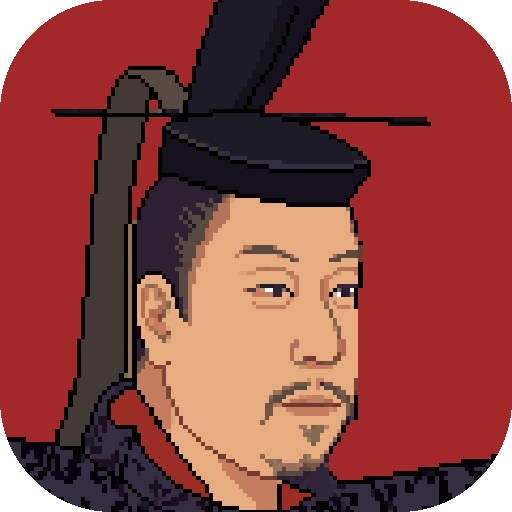
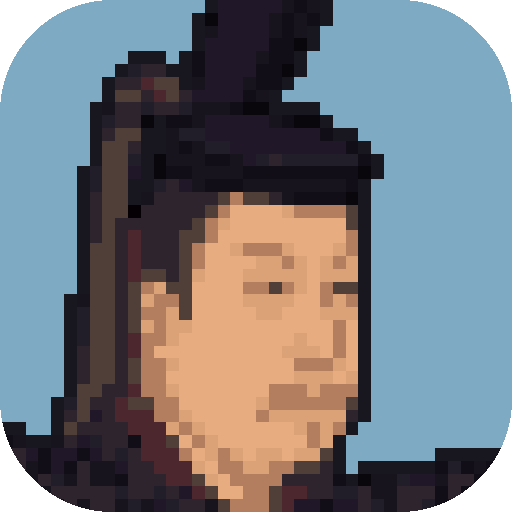
部屋番号を必ず割り振る（暗記大戦・SUPER歴史ノベル）、歴史ノベルのアイコンをドット感のある空色に
Claude-Session: https://claude.ai/code/session_01HyMbFkDw166AQ3cNkkYCFM

diff --git a/apps/history-novel/index.html b/apps/history-novel/index.html
@@ -195,7 +195,9 @@ header{position:relative;display:flex;align-items:center;gap:12px;border-bottom:
 .stats small{color:var(--muted);font-size:12px}
 .ov.sel{background:linear-gradient(90deg,var(--bg) 0,var(--bg) 34%,color-mix(in srgb,var(--bg) 70%,transparent) 60%,transparent 100%);display:flex;align-items:center}
 @media (max-width:640px){.ov.sel{background:linear-gradient(180deg,color-mix(in srgb,var(--bg) 92%,transparent),color-mix(in srgb,var(--bg) 80%,transparent))}}
-.sel-in{width:100%;max-width:1100px;margin:0 auto;display:grid;gap:22px}
+.sel-in{width:100%;max-width:1100px;margin:auto;display:grid;gap:22px}
+.ov.sel{overflow-y:auto}
+#titleRoom p{margin:0}#titleRoom:empty{display:none}
 .sel .sub{font-size:12px;letter-spacing:.3em;color:var(--muted)}
 .eras{list-style:none;margin:0;padding:0;display:grid;gap:2px;max-width:420px;counter-reset:e}
 .eras .era{width:100%;display:grid;grid-template-columns:5.5em 7.5em 1fr;align-items:baseline;gap:10px;text-align:left;padding:9px 0;border-bottom:1px solid var(--line)}
@@ -904,7 +906,7 @@ $("sheetRoot").addEventListener("click",e=>{
   const t=e.target.closest("[data-k]");if(t){st.sheet="term";openTerm(t.dataset.k,false);}
 });
 $("bGl").onclick=e=>{e.stopPropagation();st.sheet="gloss";st.stack=[];renderSheet();};
-$("bRoom").onclick=e=>{e.stopPropagation();if(!room&&SBR.on){SBR.invite();return;}st.sheet="room";st.stack=[];renderSheet();};
+$("bRoom").onclick=e=>{e.stopPropagation();st.sheet="room";st.stack=[];renderSheet();};
 $("bEnd").onclick=e=>{e.stopPropagation();if(isFollower()){roomAction("solo");}st.dug=new Set();resetProgress();showTitle();};
 $("novel").addEventListener("click",e=>{
   const t=e.target.closest(".term");if(t){e.stopPropagation();return openTerm(t.dataset.k,true);}
@@ -926,9 +928,10 @@ function showTitle(){
   $("ovRoot").innerHTML=`<div class="ov sel"><div class="sel-in">
    <h1 class="app-name"><b>SUPER</b>歴史ノベル</h1>
    <div class="sub">日本史をめぐる</div>
+   <div id="titleRoom"></div>
    <ol class="eras">${ERAS.map((e,j)=>e[3]?`<li><button class="era on" id="start"><span class="no">${j+1}</span><span class="en">${e[0]}</span><span class="et">${e[2]}</span></button></li>`
      :`<li><div class="era off"><span class="no">${j+1}</span><span class="en">${e[0]}</span><span class="et">準備中</span></div></li>`).join("")}</ol>
-   <div id="titleRoom"></div></div></div>`;
+   </div></div>`;
   renderTitleRoom();push();
 }
 function renderTitleRoom(){
@@ -938,10 +941,10 @@ function renderTitleRoom(){
     if(sb)sb.disabled=true;
     el.innerHTML=`<p class="muted">${esc(h?nameOf(h):"ホスト")}さんが始めるのを待っています　<button class="lnk" data-room="solo">ひとりで読む</button></p>`;
   }else{
-    if(sb){sb.disabled=false;sb.onclick=()=>{SE.scene();startReading();};}
-    el.innerHTML=(!room&&SBR.on)?`<p class="muted"><button class="lnk" data-room="invite">一緒に読む</button></p>`:room?`<p class="muted">${st.role==="host"?`ホストとして読みます（${others().length+1}人）　<button class="lnk" data-room="solo">やめる</button>`:`<button class="lnk" data-room="host">一緒に読む</button>`}</p>`:"";
+    if(sb){sb.disabled=false;sb.onclick=()=>{SE.scene();if(SBR.on&&room&&st.role==="solo"&&!(h&&!h.sameTab))roomAction("host");startReading();};}
+    el.innerHTML=SBR.on?`${h&&!h.sameTab?`<p class="muted">${esc(nameOf(h))}さんが読んでいます　<button class="lnk" data-room="follow">参加する</button></p>`:""}<p class="muted">部屋 <b>${esc(SBR.code)}</b>　<button class="lnk" data-share="1">この部屋のURLをシェア</button></p>`:room?`<p class="muted">${st.role==="host"?`ホストとして読みます（${others().length+1}人）　<button class="lnk" data-room="solo">やめる</button>`:`<button class="lnk" data-room="host">一緒に読む</button>`}</p>`:"";
   }
-  el.querySelectorAll("[data-room]").forEach(b=>b.onclick=()=>b.dataset.room==="invite"?SBR.invite():roomAction(b.dataset.room));
+  el.querySelectorAll("[data-room]").forEach(b=>b.onclick=()=>roomAction(b.dataset.room));
 }
 function showOrder(){
   const perm=st.perm;
@@ -1022,12 +1025,12 @@ function roomSheet(){
   else act=`${h?`<button class="go" data-room="follow">${esc(nameOf(h))}さんに合わせて読む</button>`:""}<button class="ghost" data-room="host">ホストになって一緒に読む</button>`;
   return `<div class="crumb"><span>参加者</span></div><div class="sh-body"><h2>いま開いている人 ${peers.filter(p=>p.kind==="viewer").length}</h2>
   <div class="glist">${list}</div><div style="display:grid;gap:8px;margin-top:14px">${act}</div>
-  ${SBR.code?`<p class="muted" style="margin-top:12px">招待は、このリンクを送るだけです。</p><div style="display:grid;gap:8px"><label class="muted" style="display:grid;gap:4px">あなたの名前<input data-myname maxlength="12" placeholder="ゲスト" value="${esc(SBR.me_&&SBR.me_.name!=="ゲスト"?SBR.me_.name:"")}" style="font:inherit;padding:8px;border:1px solid var(--line);border-radius:8px;background:var(--sheet);color:var(--ink)"></label><input readonly value="${esc(SBR.link())}" onclick="this.select()" style="font:inherit;padding:8px;border:1px solid var(--line);border-radius:8px;background:var(--sheet);color:var(--ink)"><button class="go" data-invite="1">${navigator.share?"リンクを送る":"リンクをコピー"}</button></div>`:`<p class="muted" style="margin-top:12px">招待は、このページの共有メニューからできます。</p>`}</div>`;
+  ${SBR.code?`<p class="muted" style="margin-top:12px">同じ部屋番号のURLを開いた人と一緒に読めます。部屋番号 <b>${esc(SBR.code)}</b></p><div style="display:grid;gap:8px"><label class="muted" style="display:grid;gap:4px">あなたの名前<input data-myname maxlength="12" placeholder="ゲスト" value="${esc(SBR.me_&&SBR.me_.name!=="ゲスト"?SBR.me_.name:"")}" style="font:inherit;padding:8px;border:1px solid var(--line);border-radius:8px;background:var(--sheet);color:var(--ink)"></label><input readonly value="${esc(SBR.link())}" onclick="this.select()" style="font:inherit;padding:8px;border:1px solid var(--line);border-radius:8px;background:var(--sheet);color:var(--ink)"><button class="go" data-share="1">この部屋のURLをシェア</button></div>`:`<p class="muted" style="margin-top:12px">招待は、このページの共有メニューからできます。</p>`}</div>`;
 }
 function updateRoomUI(){
-  const b=$("bRoom");if(!room){b.hidden=!SBR.on;b.textContent="一緒に読む";b.classList.remove("on");return;}
+  const b=$("bRoom");if(!room){b.hidden=true;return;}
   b.hidden=false;const n=peers.filter(p=>p.kind==="viewer").length||1;
-  b.textContent=st.role==="host"?`参加者 ${n}・ホスト`:st.role==="follow"?`参加者 ${n}・同期中`:`参加者 ${n}`;
+  b.textContent=SBR.on?`部屋 ${SBR.code}・${n}人${st.role==="host"?"・ホスト":st.role==="follow"?"・同期中":""}`:st.role==="host"?`参加者 ${n}・ホスト`:st.role==="follow"?`参加者 ${n}・同期中`:`参加者 ${n}`;
   b.classList.toggle("on",st.role!=="solo");
 }
 async function resolveNames(){
@@ -1042,16 +1045,16 @@ function bindRoom(){
     if(ch.joined.length)await resolveNames();
     const h=hostPeer();
     if(st.role==="host"&&h&&!h.sameTab)roomAction("solo");
-    if(st.role==="solo"&&h&&!h.sameTab&&!st.autoAsked&&st.v==="title"){st.autoAsked=true;roomAction("follow");}
+    if(!SBR.on&&st.role==="solo"&&h&&!h.sameTab&&!st.autoAsked&&st.v==="title"){st.autoAsked=true;roomAction("follow");}
     if(st.role==="follow"&&h&&!h.sameTab)applyHost(h.presence.s);
     if(st.role==="host"&&ch.joined.length)push();
     updateRoomUI();if(st.sheet==="room"&&!(document.activeElement&&document.activeElement.matches("[data-myname]")))renderSheet();
     if(st.v==="title")renderTitleRoom();
   },()=>{room=null;updateRoomUI();});
 }
-/* ポータル版の「一緒に読む」: Supabase Realtime presence（表は使わない）。?yomu=あいことば で同じ部屋に入る。 */
+/* ポータル版の「一緒に読む」: Supabase Realtime（表は使わない）。?room=部屋番号 が同じ人どうしが同じ部屋。番号が無ければ6桁を割り振る。 */
 const SBR={on:false,code:"",
-  link(){return location.origin+location.pathname+"?yomu="+this.code;},
+  link(){return location.origin+location.pathname+"?room="+this.code;},
   async me(){
     let id=null,name="";
     try{name=(localStorage.getItem("hn-name")||localStorage.getItem("nb-name")||"").slice(0,12);}catch(e){}
@@ -1078,20 +1081,13 @@ const SBR={on:false,code:"",
     let tracked="";const slowTrack=()=>{clearTimeout(tT);const sig=JSON.stringify([pres.host||null,pres.ep||null]);if(sig===tracked)return;const w=1500-(Date.now()-lastT);if(w<=0){lastT=Date.now();tracked=sig;track().catch(()=>{tracked="";});}else tT=setTimeout(slowTrack,w);};
     room={presence(p){pres=p;seq=Date.now()*1000+(seq%1000+1);if(!ready)return Promise.resolve();ch.send({type:"broadcast",event:"p",payload:{k:key,q:seq,p}}).catch(()=>{});slowTrack();return Promise.resolve();},onPeers(f){cb=f;}};
     bindRoom();
-  },
-  async invite(){
-    if(room)return;
-    const code=Math.random().toString(36).slice(2,8);
-    try{history.replaceState(null,"",location.pathname+"?yomu="+code);}catch(e){}
-    await this.join(code);roomAction("host");
-    st.sheet="room";st.stack=[];renderSheet();
   }
 };
 const SB_URL="https://rjydvhpqfhmlvpsykwzf.supabase.co",SB_KEY="sb_publishable_NAVKQxtEtS1zPFj59iXIEQ_Y_RztuSx";
 document.addEventListener("change",e=>{const t=e.target;if(!t.matches||!t.matches("[data-myname]")||!SBR.me_)return;const v=t.value.trim().slice(0,12);SBR.me_.name=v||"ゲスト";try{localStorage.setItem("hn-name",v);}catch(x){}SBR.retrack();},true);
-document.addEventListener("click",e=>{const b=e.target.closest("[data-invite]");if(!b)return;e.stopPropagation();const url=SBR.link();
-  if(navigator.share)navigator.share({title:"SUPER歴史ノベル",text:"一緒に読もう",url}).catch(()=>{});
-  else navigator.clipboard&&navigator.clipboard.writeText(url).then(()=>{b.textContent="コピーしました";},()=>{});},true);
+document.addEventListener("click",e=>{const b=e.target.closest("[data-share]");if(!b)return;e.stopPropagation();const url=SBR.link();
+  if(navigator.share)navigator.share({title:"SUPER歴史ノベル",text:"部屋 "+SBR.code+" で一緒に読もう",url}).catch(()=>{});
+  else navigator.clipboard&&navigator.clipboard.writeText(url).then(()=>{b.textContent="コピーしました";setTimeout(()=>{b.textContent="この部屋のURLをシェア";},2000);},()=>{});},true);
 (async()=>{
   if(window.claude&&window.claude.use){
     try{user=await window.claude.use("user");}catch(e){}
@@ -1100,9 +1096,11 @@ document.addEventListener("click",e=>{const b=e.target.closest("[data-invite]");
     return;
   }
   if(!window.supabase)return;
-  SBR.on=true;updateRoomUI();if(st.v==="title")renderTitleRoom();
-  const code=(new URLSearchParams(location.search).get("yomu")||"").replace(/[^\w-]/g,"").slice(0,32);
-  if(code)await SBR.join(code);
+  /* 部屋番号は必ずある（2026-11-05 Keita決定）。?room= が無ければ開くたびにランダムな6桁を割り振る。暗記大戦と同じ決まり */
+  const q=new URLSearchParams(location.search);let code=(q.get("room")||"").replace(/[^\w-]/g,"").slice(0,32);
+  if(!code){code=String(100000+Math.floor(Math.random()*900000));q.set("room",code);try{history.replaceState(null,"",location.pathname+"?"+q.toString()+location.hash);}catch(e){}}
+  SBR.on=true;SBR.code=code;if(st.v==="title")renderTitleRoom();
+  await SBR.join(code);if(st.v==="title")renderTitleRoom();
 })();
 drawSnd();setScene(S[0].scene);mstate=Object.assign({c:[137,36],r:700,pins:[],blink:null,ar:[]},S[0].scene.m);buildOverlay();resize();showTitle();
 

diff --git a/apps/history-novel/src/engine2.js b/apps/history-novel/src/engine2.js
@@ -386,7 +386,7 @@ $("sheetRoot").addEventListener("click",e=>{
   const t=e.target.closest("[data-k]");if(t){st.sheet="term";openTerm(t.dataset.k,false);}
 });
 $("bGl").onclick=e=>{e.stopPropagation();st.sheet="gloss";st.stack=[];renderSheet();};
-$("bRoom").onclick=e=>{e.stopPropagation();if(!room&&SBR.on){SBR.invite();return;}st.sheet="room";st.stack=[];renderSheet();};
+$("bRoom").onclick=e=>{e.stopPropagation();st.sheet="room";st.stack=[];renderSheet();};
 $("bEnd").onclick=e=>{e.stopPropagation();if(isFollower()){roomAction("solo");}st.dug=new Set();resetProgress();showTitle();};
 $("novel").addEventListener("click",e=>{
   const t=e.target.closest(".term");if(t){e.stopPropagation();return openTerm(t.dataset.k,true);}
@@ -408,9 +408,10 @@ function showTitle(){
   $("ovRoot").innerHTML=`<div class="ov sel"><div class="sel-in">
    <h1 class="app-name"><b>SUPER</b>歴史ノベル</h1>
    <div class="sub">日本史をめぐる</div>
+   <div id="titleRoom"></div>
    <ol class="eras">${ERAS.map((e,j)=>e[3]?`<li><button class="era on" id="start"><span class="no">${j+1}</span><span class="en">${e[0]}</span><span class="et">${e[2]}</span></button></li>`
      :`<li><div class="era off"><span class="no">${j+1}</span><span class="en">${e[0]}</span><span class="et">準備中</span></div></li>`).join("")}</ol>
-   <div id="titleRoom"></div></div></div>`;
+   </div></div>`;
   renderTitleRoom();push();
 }
 function renderTitleRoom(){
@@ -420,10 +421,10 @@ function renderTitleRoom(){
     if(sb)sb.disabled=true;
     el.innerHTML=`<p class="muted">${esc(h?nameOf(h):"ホスト")}さんが始めるのを待っています　<button class="lnk" data-room="solo">ひとりで読む</button></p>`;
   }else{
-    if(sb){sb.disabled=false;sb.onclick=()=>{SE.scene();startReading();};}
-    el.innerHTML=(!room&&SBR.on)?`<p class="muted"><button class="lnk" data-room="invite">一緒に読む</button></p>`:room?`<p class="muted">${st.role==="host"?`ホストとして読みます（${others().length+1}人）　<button class="lnk" data-room="solo">やめる</button>`:`<button class="lnk" data-room="host">一緒に読む</button>`}</p>`:"";
+    if(sb){sb.disabled=false;sb.onclick=()=>{SE.scene();if(SBR.on&&room&&st.role==="solo"&&!(h&&!h.sameTab))roomAction("host");startReading();};}
+    el.innerHTML=SBR.on?`${h&&!h.sameTab?`<p class="muted">${esc(nameOf(h))}さんが読んでいます　<button class="lnk" data-room="follow">参加する</button></p>`:""}<p class="muted">部屋 <b>${esc(SBR.code)}</b>　<button class="lnk" data-share="1">この部屋のURLをシェア</button></p>`:room?`<p class="muted">${st.role==="host"?`ホストとして読みます（${others().length+1}人）　<button class="lnk" data-room="solo">やめる</button>`:`<button class="lnk" data-room="host">一緒に読む</button>`}</p>`:"";
   }
-  el.querySelectorAll("[data-room]").forEach(b=>b.onclick=()=>b.dataset.room==="invite"?SBR.invite():roomAction(b.dataset.room));
+  el.querySelectorAll("[data-room]").forEach(b=>b.onclick=()=>roomAction(b.dataset.room));
 }
 function showOrder(){
   const perm=st.perm;
@@ -504,12 +505,12 @@ function roomSheet(){
   else act=`${h?`<button class="go" data-room="follow">${esc(nameOf(h))}さんに合わせて読む</button>`:""}<button class="ghost" data-room="host">ホストになって一緒に読む</button>`;
   return `<div class="crumb"><span>参加者</span></div><div class="sh-body"><h2>いま開いている人 ${peers.filter(p=>p.kind==="viewer").length}</h2>
   <div class="glist">${list}</div><div style="display:grid;gap:8px;margin-top:14px">${act}</div>
-  ${SBR.code?`<p class="muted" style="margin-top:12px">招待は、このリンクを送るだけです。</p><div style="display:grid;gap:8px"><label class="muted" style="display:grid;gap:4px">あなたの名前<input data-myname maxlength="12" placeholder="ゲスト" value="${esc(SBR.me_&&SBR.me_.name!=="ゲスト"?SBR.me_.name:"")}" style="font:inherit;padding:8px;border:1px solid var(--line);border-radius:8px;background:var(--sheet);color:var(--ink)"></label><input readonly value="${esc(SBR.link())}" onclick="this.select()" style="font:inherit;padding:8px;border:1px solid var(--line);border-radius:8px;background:var(--sheet);color:var(--ink)"><button class="go" data-invite="1">${navigator.share?"リンクを送る":"リンクをコピー"}</button></div>`:`<p class="muted" style="margin-top:12px">招待は、このページの共有メニューからできます。</p>`}</div>`;
+  ${SBR.code?`<p class="muted" style="margin-top:12px">同じ部屋番号のURLを開いた人と一緒に読めます。部屋番号 <b>${esc(SBR.code)}</b></p><div style="display:grid;gap:8px"><label class="muted" style="display:grid;gap:4px">あなたの名前<input data-myname maxlength="12" placeholder="ゲスト" value="${esc(SBR.me_&&SBR.me_.name!=="ゲスト"?SBR.me_.name:"")}" style="font:inherit;padding:8px;border:1px solid var(--line);border-radius:8px;background:var(--sheet);color:var(--ink)"></label><input readonly value="${esc(SBR.link())}" onclick="this.select()" style="font:inherit;padding:8px;border:1px solid var(--line);border-radius:8px;background:var(--sheet);color:var(--ink)"><button class="go" data-share="1">この部屋のURLをシェア</button></div>`:`<p class="muted" style="margin-top:12px">招待は、このページの共有メニューからできます。</p>`}</div>`;
 }
 function updateRoomUI(){
-  const b=$("bRoom");if(!room){b.hidden=!SBR.on;b.textContent="一緒に読む";b.classList.remove("on");return;}
+  const b=$("bRoom");if(!room){b.hidden=true;return;}
   b.hidden=false;const n=peers.filter(p=>p.kind==="viewer").length||1;
-  b.textContent=st.role==="host"?`参加者 ${n}・ホスト`:st.role==="follow"?`参加者 ${n}・同期中`:`参加者 ${n}`;
+  b.textContent=SBR.on?`部屋 ${SBR.code}・${n}人${st.role==="host"?"・ホスト":st.role==="follow"?"・同期中":""}`:st.role==="host"?`参加者 ${n}・ホスト`:st.role==="follow"?`参加者 ${n}・同期中`:`参加者 ${n}`;
   b.classList.toggle("on",st.role!=="solo");
 }
 async function resolveNames(){
@@ -524,16 +525,16 @@ function bindRoom(){
     if(ch.joined.length)await resolveNames();
     const h=hostPeer();
     if(st.role==="host"&&h&&!h.sameTab)roomAction("solo");
-    if(st.role==="solo"&&h&&!h.sameTab&&!st.autoAsked&&st.v==="title"){st.autoAsked=true;roomAction("follow");}
+    if(!SBR.on&&st.role==="solo"&&h&&!h.sameTab&&!st.autoAsked&&st.v==="title"){st.autoAsked=true;roomAction("follow");}
     if(st.role==="follow"&&h&&!h.sameTab)applyHost(h.presence.s);
     if(st.role==="host"&&ch.joined.length)push();
     updateRoomUI();if(st.sheet==="room"&&!(document.activeElement&&document.activeElement.matches("[data-myname]")))renderSheet();
     if(st.v==="title")renderTitleRoom();
   },()=>{room=null;updateRoomUI();});
 }
-/* ポータル版の「一緒に読む」: Supabase Realtime presence（表は使わない）。?yomu=あいことば で同じ部屋に入る。 */
+/* ポータル版の「一緒に読む」: Supabase Realtime（表は使わない）。?room=部屋番号 が同じ人どうしが同じ部屋。番号が無ければ6桁を割り振る。 */
 const SBR={on:false,code:"",
-  link(){return location.origin+location.pathname+"?yomu="+this.code;},
+  link(){return location.origin+location.pathname+"?room="+this.code;},
   async me(){
     let id=null,name="";
     try{name=(localStorage.getItem("hn-name")||localStorage.getItem("nb-name")||"").slice(0,12);}catch(e){}
@@ -560,20 +561,13 @@ const SBR={on:false,code:"",
     let tracked="";const slowTrack=()=>{clearTimeout(tT);const sig=JSON.stringify([pres.host||null,pres.ep||null]);if(sig===tracked)return;const w=1500-(Date.now()-lastT);if(w<=0){lastT=Date.now();tracked=sig;track().catch(()=>{tracked="";});}else tT=setTimeout(slowTrack,w);};
     room={presence(p){pres=p;seq=Date.now()*1000+(seq%1000+1);if(!ready)return Promise.resolve();ch.send({type:"broadcast",event:"p",payload:{k:key,q:seq,p}}).catch(()=>{});slowTrack();return Promise.resolve();},onPeers(f){cb=f;}};
     bindRoom();
-  },
-  async invite(){
-    if(room)return;
-    const code=Math.random().toString(36).slice(2,8);
-    try{history.replaceState(null,"",location.pathname+"?yomu="+code);}catch(e){}
-    await this.join(code);roomAction("host");
-    st.sheet="room";st.stack=[];renderSheet();
   }
 };
 const SB_URL="https://rjydvhpqfhmlvpsykwzf.supabase.co",SB_KEY="sb_publishable_NAVKQxtEtS1zPFj59iXIEQ_Y_RztuSx";
 document.addEventListener("change",e=>{const t=e.target;if(!t.matches||!t.matches("[data-myname]")||!SBR.me_)return;const v=t.value.trim().slice(0,12);SBR.me_.name=v||"ゲスト";try{localStorage.setItem("hn-name",v);}catch(x){}SBR.retrack();},true);
-document.addEventListener("click",e=>{const b=e.target.closest("[data-invite]");if(!b)return;e.stopPropagation();const url=SBR.link();
-  if(navigator.share)navigator.share({title:"SUPER歴史ノベル",text:"一緒に読もう",url}).catch(()=>{});
-  else navigator.clipboard&&navigator.clipboard.writeText(url).then(()=>{b.textContent="コピーしました";},()=>{});},true);
+document.addEventListener("click",e=>{const b=e.target.closest("[data-share]");if(!b)return;e.stopPropagation();const url=SBR.link();
+  if(navigator.share)navigator.share({title:"SUPER歴史ノベル",text:"部屋 "+SBR.code+" で一緒に読もう",url}).catch(()=>{});
+  else navigator.clipboard&&navigator.clipboard.writeText(url).then(()=>{b.textContent="コピーしました";setTimeout(()=>{b.textContent="この部屋のURLをシェア";},2000);},()=>{});},true);
 (async()=>{
   if(window.claude&&window.claude.use){
     try{user=await window.claude.use("user");}catch(e){}
@@ -582,8 +576,10 @@ document.addEventListener("click",e=>{const b=e.target.closest("[data-invite]");
     return;
   }
   if(!window.supabase)return;
-  SBR.on=true;updateRoomUI();if(st.v==="title")renderTitleRoom();
-  const code=(new URLSearchParams(location.search).get("yomu")||"").replace(/[^\w-]/g,"").slice(0,32);
-  if(code)await SBR.join(code);
+  /* 部屋番号は必ずある（2026-11-05 Keita決定）。?room= が無ければ開くたびにランダムな6桁を割り振る。暗記大戦と同じ決まり */
+  const q=new URLSearchParams(location.search);let code=(q.get("room")||"").replace(/[^\w-]/g,"").slice(0,32);
+  if(!code){code=String(100000+Math.floor(Math.random()*900000));q.set("room",code);try{history.replaceState(null,"",location.pathname+"?"+q.toString()+location.hash);}catch(e){}}
+  SBR.on=true;SBR.code=code;if(st.v==="title")renderTitleRoom();
+  await SBR.join(code);if(st.v==="title")renderTitleRoom();
 })();
 drawSnd();setScene(S[0].scene);mstate=Object.assign({c:[137,36],r:700,pins:[],blink:null,ar:[]},S[0].scene.m);buildOverlay();resize();showTitle();

diff --git a/apps/anki-taisen/index.html b/apps/anki-taisen/index.html
@@ -9,9 +9,17 @@
 <script src="https://unpkg.com/@supabase/supabase-js@2.117.1/dist/umd/supabase.js"></script>
 <script>
 // 対戦のつなぎ役: Supabase Realtime presence（表は使わない）。publishable key は公開してよい値。
-// ?room=あいことば で部屋を分けられる（省略時は main）。
+// 部屋番号は必ずある（2026-11-05 Keita決定）。?room= が無ければ開くたびにランダムな6桁を割り振り、URLに書き込む。
+// 同じ部屋番号のURLを開いた人どうしが同じ部屋。部屋のURLはロビーの「この部屋のURLをシェア」で送る。
 window.ANKI_SB={url:"https://rjydvhpqfhmlvpsykwzf.supabase.co",key:"sb_publishable_NAVKQxtEtS1zPFj59iXIEQ_Y_RztuSx",
-  room:(new URLSearchParams(location.search).get("room")||"main").replace(/[^\w-]/g,"").slice(0,32)||"main"};
+  room:(function(){var q=new URLSearchParams(location.search),r=(q.get("room")||"").replace(/[^\w-]/g,"").slice(0,32);
+    if(!r){r=String(100000+Math.floor(Math.random()*900000));q.set("room",r);try{history.replaceState(null,"",location.pathname+"?"+q.toString()+location.hash);}catch(e){}}
+    return r;})()};
+document.addEventListener("click",function(e){var b=e.target.closest&&e.target.closest("[data-share-room]");if(!b)return;
+  var url=location.origin+location.pathname+"?room="+window.ANKI_SB.room;
+  if(navigator.share){navigator.share({title:"激突！暗記大戦",text:"部屋 "+window.ANKI_SB.room+" で対戦しよう",url:url}).catch(function(){});}
+  else if(navigator.clipboard){navigator.clipboard.writeText(url).then(function(){b.textContent="コピーしました";setTimeout(function(){b.textContent="この部屋のURLをシェア";},2000);});}});
+document.addEventListener("DOMContentLoaded",function(){var n=document.getElementById("roomNo");if(n)n.textContent=window.ANKI_SB.room;});
 </script>
 </head>
 <body>
@@ -292,6 +300,11 @@ h1.plain{font-size:20px;padding:12px 16px;border-radius:14px;text-align:left;box
   <!-- ロビー -->
   <section id="lobby" style="display:flex;flex-direction:column;gap:14px">
     <h1>激<span class="tilt">突</span>！<span>暗記</span>大戦<small>年号も用語も鳥も木も、みんなで覚える</small></h1>
+
+    <div class="roombar" style="display:flex;align-items:center;justify-content:space-between;gap:10px;flex-wrap:wrap">
+      <span>部屋 <b id="roomNo" style="font-size:1.25em;letter-spacing:.08em"></b></span>
+      <button type="button" class="btn ghost" data-share-room style="width:auto;padding:8px 14px">この部屋のURLをシェア</button>
+    </div>
 
     <div class="invite" id="invite" hidden>
       <span id="inviteText"></span>

diff --git a/apps/anki-taisen/src/pubhead.html b/apps/anki-taisen/src/pubhead.html
@@ -9,9 +9,17 @@
 <script src="https://unpkg.com/@supabase/supabase-js@2.117.1/dist/umd/supabase.js"></script>
 <script>
 // 対戦のつなぎ役: Supabase Realtime presence（表は使わない）。publishable key は公開してよい値。
-// ?room=あいことば で部屋を分けられる（省略時は main）。
+// 部屋番号は必ずある（2026-11-05 Keita決定）。?room= が無ければ開くたびにランダムな6桁を割り振り、URLに書き込む。
+// 同じ部屋番号のURLを開いた人どうしが同じ部屋。部屋のURLはロビーの「この部屋のURLをシェア」で送る。
 window.ANKI_SB={url:"https://rjydvhpqfhmlvpsykwzf.supabase.co",key:"sb_publishable_NAVKQxtEtS1zPFj59iXIEQ_Y_RztuSx",
-  room:(new URLSearchParams(location.search).get("room")||"main").replace(/[^\w-]/g,"").slice(0,32)||"main"};
+  room:(function(){var q=new URLSearchParams(location.search),r=(q.get("room")||"").replace(/[^\w-]/g,"").slice(0,32);
+    if(!r){r=String(100000+Math.floor(Math.random()*900000));q.set("room",r);try{history.replaceState(null,"",location.pathname+"?"+q.toString()+location.hash);}catch(e){}}
+    return r;})()};
+document.addEventListener("click",function(e){var b=e.target.closest&&e.target.closest("[data-share-room]");if(!b)return;
+  var url=location.origin+location.pathname+"?room="+window.ANKI_SB.room;
+  if(navigator.share){navigator.share({title:"激突！暗記大戦",text:"部屋 "+window.ANKI_SB.room+" で対戦しよう",url:url}).catch(function(){});}
+  else if(navigator.clipboard){navigator.clipboard.writeText(url).then(function(){b.textContent="コピーしました";setTimeout(function(){b.textContent="この部屋のURLをシェア";},2000);});}});
+document.addEventListener("DOMContentLoaded",function(){var n=document.getElementById("roomNo");if(n)n.textContent=window.ANKI_SB.room;});
 </script>
 </head>
 <body>

diff --git a/apps/history-novel/src/tpl.html b/apps/history-novel/src/tpl.html
@@ -195,7 +195,9 @@ header{position:relative;display:flex;align-items:center;gap:12px;border-bottom:
 .stats small{color:var(--muted);font-size:12px}
 .ov.sel{background:linear-gradient(90deg,var(--bg) 0,var(--bg) 34%,color-mix(in srgb,var(--bg) 70%,transparent) 60%,transparent 100%);display:flex;align-items:center}
 @media (max-width:640px){.ov.sel{background:linear-gradient(180deg,color-mix(in srgb,var(--bg) 92%,transparent),color-mix(in srgb,var(--bg) 80%,transparent))}}
-.sel-in{width:100%;max-width:1100px;margin:0 auto;display:grid;gap:22px}
+.sel-in{width:100%;max-width:1100px;margin:auto;display:grid;gap:22px}
+.ov.sel{overflow-y:auto}
+#titleRoom p{margin:0}#titleRoom:empty{display:none}
 .sel .sub{font-size:12px;letter-spacing:.3em;color:var(--muted)}
 .eras{list-style:none;margin:0;padding:0;display:grid;gap:2px;max-width:420px;counter-reset:e}
 .eras .era{width:100%;display:grid;grid-template-columns:5.5em 7.5em 1fr;align-items:baseline;gap:10px;text-align:left;padding:9px 0;border-bottom:1px solid var(--line)}

diff --git a/apps/anki-taisen/src/src.html b/apps/anki-taisen/src/src.html
@@ -276,6 +276,11 @@ h1.plain{font-size:20px;padding:12px 16px;border-radius:14px;text-align:left;box
   <section id="lobby" style="display:flex;flex-direction:column;gap:14px">
     <h1>激<span class="tilt">突</span>！<span>暗記</span>大戦<small>年号も用語も鳥も木も、みんなで覚える</small></h1>
 
+    <div class="roombar" style="display:flex;align-items:center;justify-content:space-between;gap:10px;flex-wrap:wrap">
+      <span>部屋 <b id="roomNo" style="font-size:1.25em;letter-spacing:.08em"></b></span>
+      <button type="button" class="btn ghost" data-share-room style="width:auto;padding:8px 14px">この部屋のURLをシェア</button>
+    </div>
+
     <div class="invite" id="invite" hidden>
       <span id="inviteText"></span>
       <button id="joinBtn" type="button">参加する</button>

diff --git a/apps/history-novel/README.md b/apps/history-novel/README.md
@@ -24,8 +24,8 @@
 
 ## 名前・アイコン・一緒に読む（2026-11-05）
 - アプリ名は「SUPER歴史ノベル」（SUPERは英字）。章名「武士の世のはじまり」は章のタイトルとして残す。
-- アイコンは頼朝のドット顔を切り抜き、赤（--accent #a3282a）の地に置いたもの。`app-icons/`（作り直すときは faces/yoritomo/01_pixelate.png から白背景を抜いて切り抜く）。ホーム画面追加用に manifest.webmanifest。
+- アイコンは頼朝のドット顔を40×40ドットに落とし（14色・黒い縁取り）、空色（#7eaac4）の地に置いたもの（赤は不可、もっとドット感を、と経太さん）。`app-icons/`（作り直すときは faces/yoritomo/01_pixelate.png から白背景を抜いて切り抜く）。ホーム画面追加用に manifest.webmanifest。
 - 更新するのはポータル版だけ。Claude版（Artifact）は更新しない（トークン節約、経太さん指示）。
-- ポータル版の「一緒に読む」は Supabase Realtime（表は使わない）。「一緒に読む」を押すと `?yomu=あいことば` 付きのリンクができ、それを開いた人がホストの画面に合わせて進む。
+- ポータル版の「一緒に読む」は Supabase Realtime（表は使わない）。部屋番号は必ずある（暗記大戦と同じ決まり）。`?room=` が無ければ開くたびに6桁を割り振る。読み始めた人が自動でホストになり、同じ部屋で後から開いた人のタイトル画面に「○○さんが読んでいます　参加する」が出る。部屋のURLは「この部屋のURLをシェア」で送る。
   - presence は「誰がいてホストは誰か」だけ。画面の状態は broadcast で送る（presence で毎ページ送ると「Client presence rate limit exceeded」で切断される）。
   - 名前はログイン中なら人生クエストの表示名、なければ参加者画面で入力（端末に保存）。

diff --git a/apps/anki-taisen/README.md b/apps/anki-taisen/README.md
@@ -90,3 +90,4 @@
 
 - 写真は Wikimedia Commons、鳴き声は xeno-canto。撮影者・録音者・ライセンスを表示する。鳴き声は CC BY-NC 系なので非営利で使う（収益化するなら先に差し替える）。GFDLのみの画像は使わない。AI生成の写真・音声は使わない。
 - publishable key は公開してよい値。service role key は置かない。
+- 2026-11-05 部屋番号は必ずある（Keita決定）: ?room= が無ければ開くたびにランダムな6桁を割り振ってURLに書き込む（src/pubhead.html）。同じ部屋番号のURLを開いた人どうしが同じ部屋。ロビー上部に「部屋 123456」と「この部屋のURLをシェア」（スマホは共有シート、PCはコピー）。SUPER歴史ノベルも同じ決まり。
